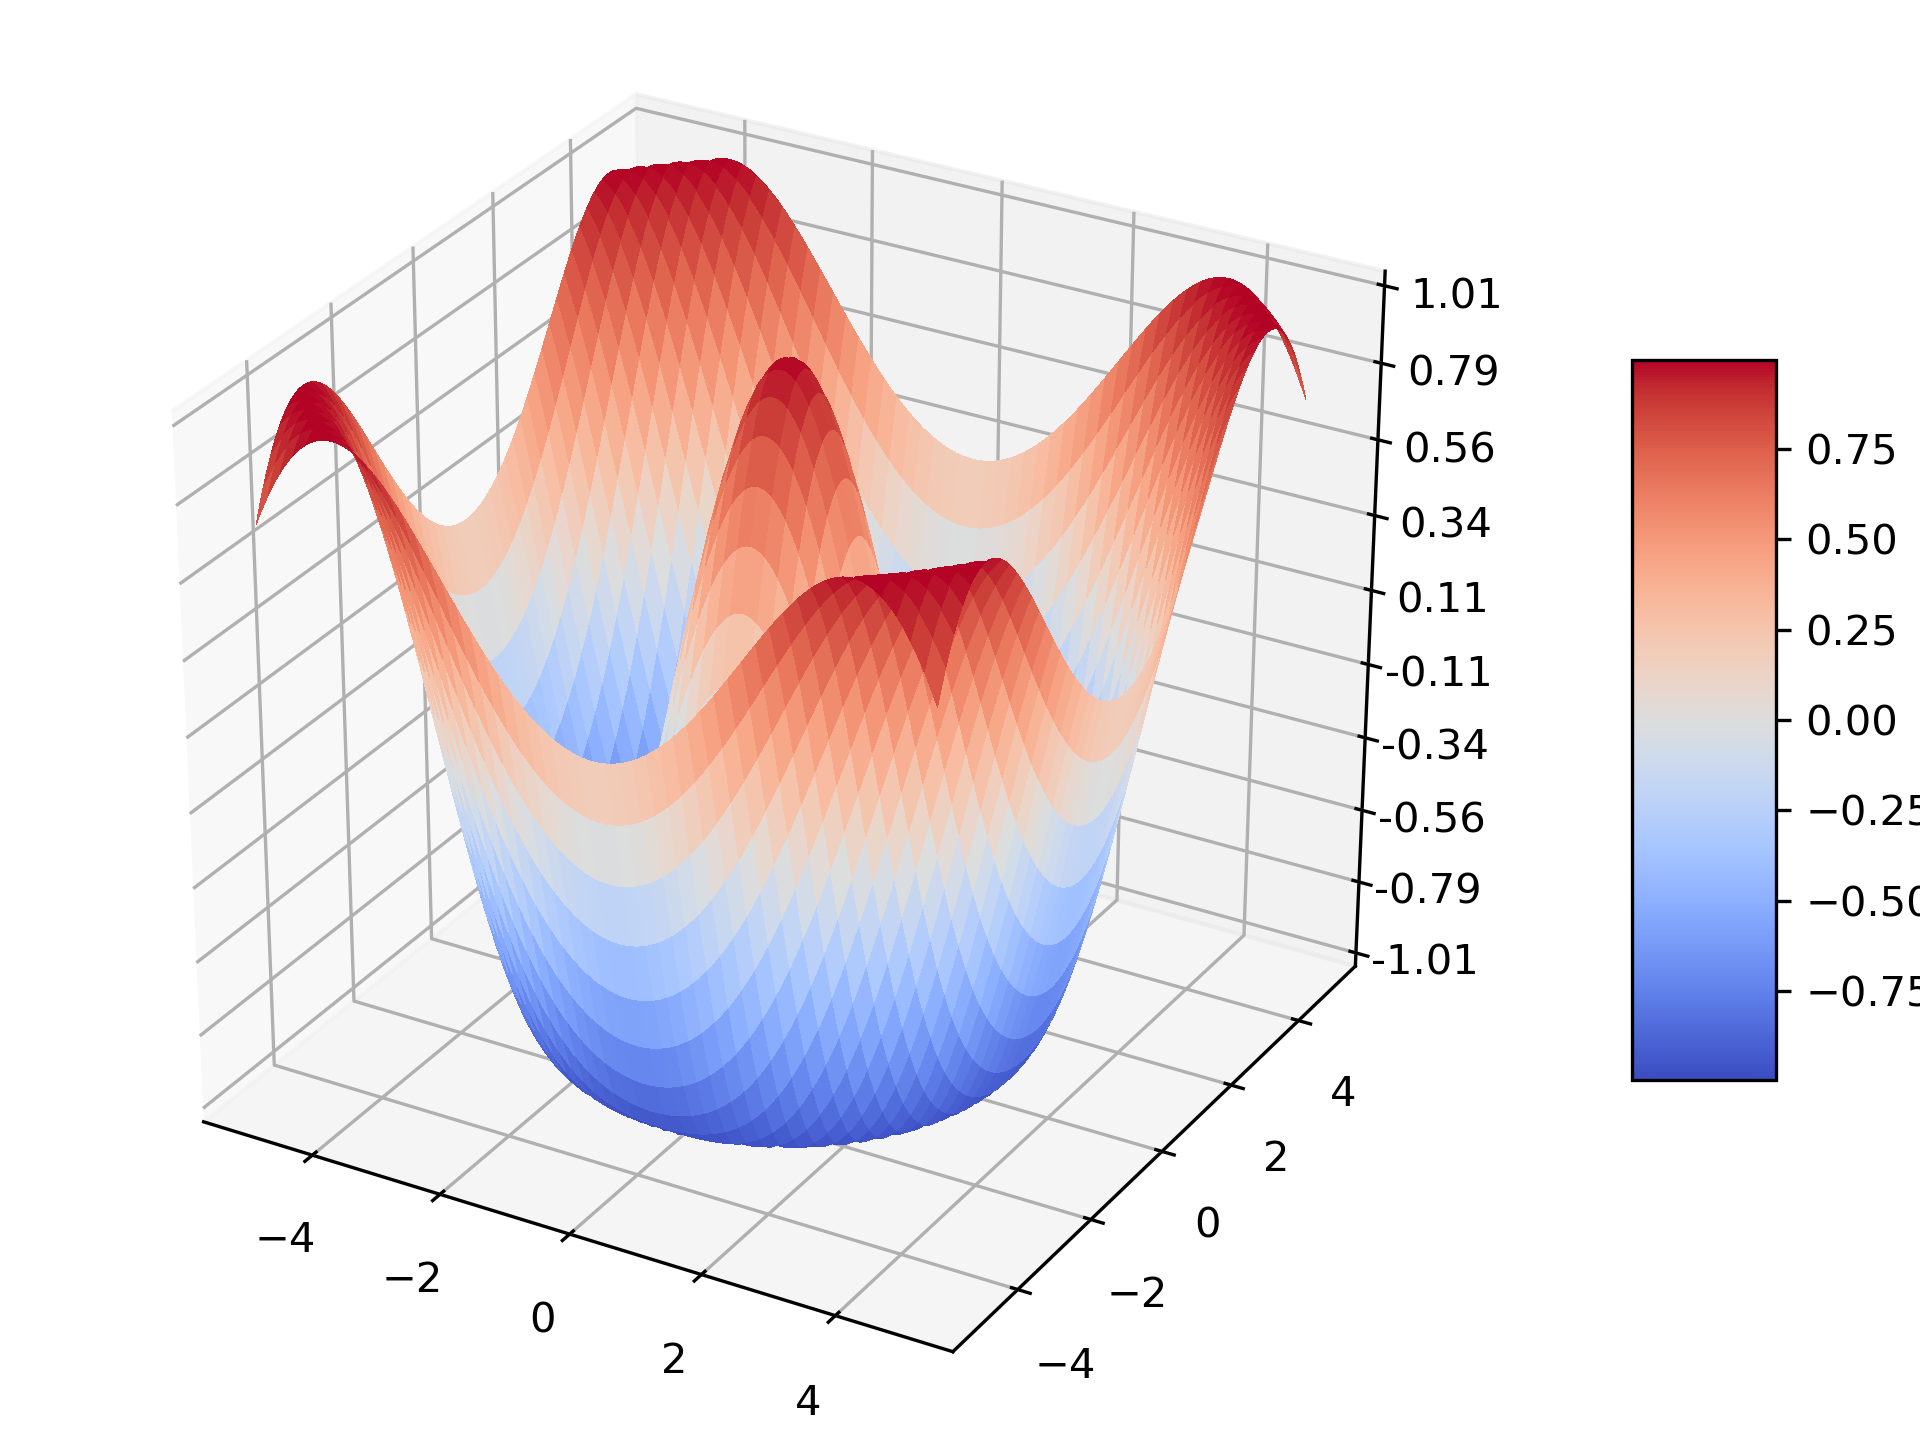
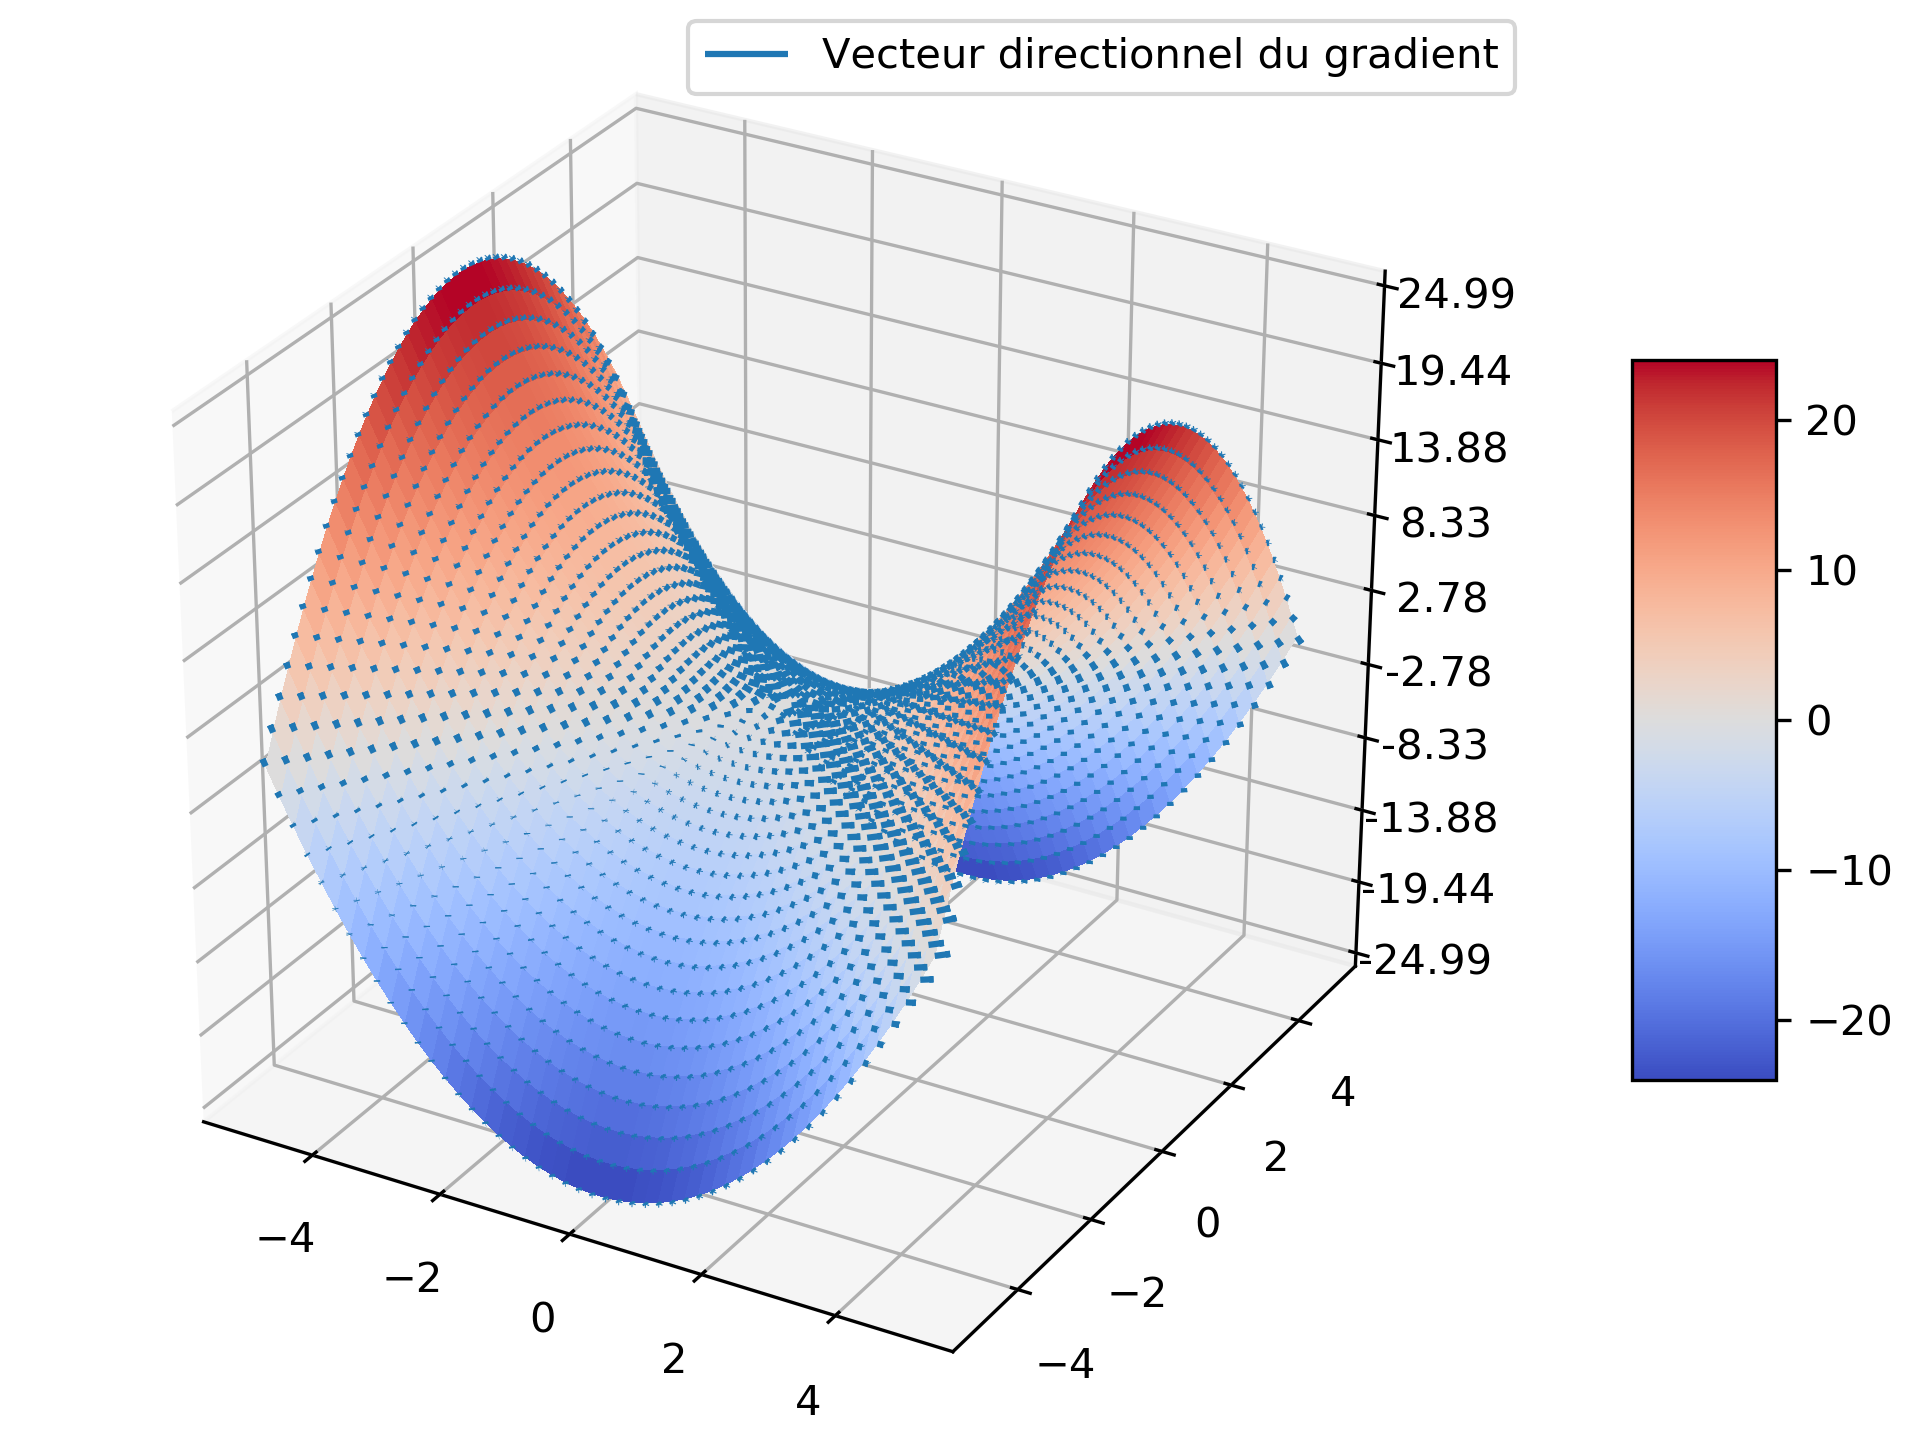
calculus

diff --git a/Differential_calculus/Differential_with_sympy.py b/Differential_calculus/Differential_with_sympy.py
@@ -2,6 +2,7 @@ import os
 import matplotlib.pyplot as plt
 import numpy as np
 import sympy as sp
+import sympy
 from matplotlib import cm
 from matplotlib.ticker import LinearLocator, FormatStrFormatter
 from mpl_toolkits.mplot3d import axes3d, Axes3D
@@ -10,46 +11,46 @@ from sympy.utilities.lambdify import lambdastr
 
 if __name__ == '__main__':
     x, y = sp.symbols("x, y")
+    #
+    # G = 9 * x ** 2 + 3 * x + 1
+    # g = sp.diff(G, x)
+    # X = np.linspace(-10, 10, 1_000)
+    # plt.plot(X, [G.evalf(subs={"x": i}) for i in X], label=f"G = {G}")
+    # plt.plot(X, [g.evalf(subs={"x": i}) for i in X], label=f"g := G' = {g}")
+    # plt.grid()
+    # plt.legend()
+    # plt.xlabel("x")
+    # plt.ylabel("y")
+    # plt.savefig(os.getcwd() + "/diff_exemple_G_and_g.png", dpi=300)
+    # plt.show()
 
-    G = 9 * x ** 2 + 3 * x + 1
-    g = sp.diff(G, x)
-    X = np.linspace(-10, 10, 1_000)
-    plt.plot(X, [G.evalf(subs={"x": i}) for i in X], label=f"G = {G}")
-    plt.plot(X, [g.evalf(subs={"x": i}) for i in X], label=f"g := G' = {g}")
-    plt.grid()
-    plt.legend()
-    plt.xlabel("x")
-    plt.ylabel("y")
-    plt.savefig(os.getcwd() + "/diff_exemple_G_and_g.png", dpi=300)
-    plt.show()
+    F = x**2 - y**2
+    grad_F = [sp.diff(F, i) for i in (x, y)]
 
-    F = sp.cos(sp.sqrt(x**2 + y**2))
-    f_x = sp.diff(F, x)
-    f_y = sp.diff(F, y)
-
-    X = np.linspace(-5, 5, 1_000)
-    Y = np.linspace(-5, 5, 1_000)
+    X = np.linspace(-5, 5, 50)
+    Y = np.linspace(-5, 5, 50)
     X, Y = np.meshgrid(X, Y)
     F_lambdify = sp.lambdify((x, y), F, modules="numpy")
-    print(f"f_x = {lambdastr(x, f_x)}")
-    f_x_lambdify = sp.lambdify(x, f_x, modules="numpy")
-    f_y_lambdify = sp.lambdify(y, f_y, modules="numpy")
+    print(f"Grad_F = {lambdastr((x, y), grad_F)}")
     Z = F_lambdify(X, Y)
+    grad_F_lambdify = sp.lambdify((x, y), grad_F, modules="numpy")
 
     fig = plt.figure()
     ax = Axes3D(fig)
+
     # Plot the surface.
-    surf = ax.plot_surface(X, Y, Z, cmap=cm.coolwarm,
-                           linewidth=0, antialiased=False)
+    surf = ax.plot_surface(X, Y, Z, cmap=cm.coolwarm, linewidth=0, antialiased=False)
+    # add gradient
+    grad_Z = grad_F_lambdify(X, Y)
+    ax.quiver(X, Y, Z, grad_Z[0], grad_Z[1], F_lambdify(*grad_Z), length=0.2, normalize=True,
+              label=f"Vecteur directionnel du gradient")
+
     # Customize the z axis.
-    ax.set_zlim(-1.01, 1.01)
     ax.zaxis.set_major_locator(LinearLocator(10))
     ax.zaxis.set_major_formatter(FormatStrFormatter('%.02f'))
 
-    # add gradient
-    ax.plot(X, f_x_lambdify(X), zdir="z")
-
     # Add a color bar which maps values to colors.
     fig.colorbar(surf, shrink=0.5, aspect=5)
+    plt.legend()
     plt.savefig(os.getcwd() + "/diff_exemple_F.png", dpi=300)
     plt.show()
